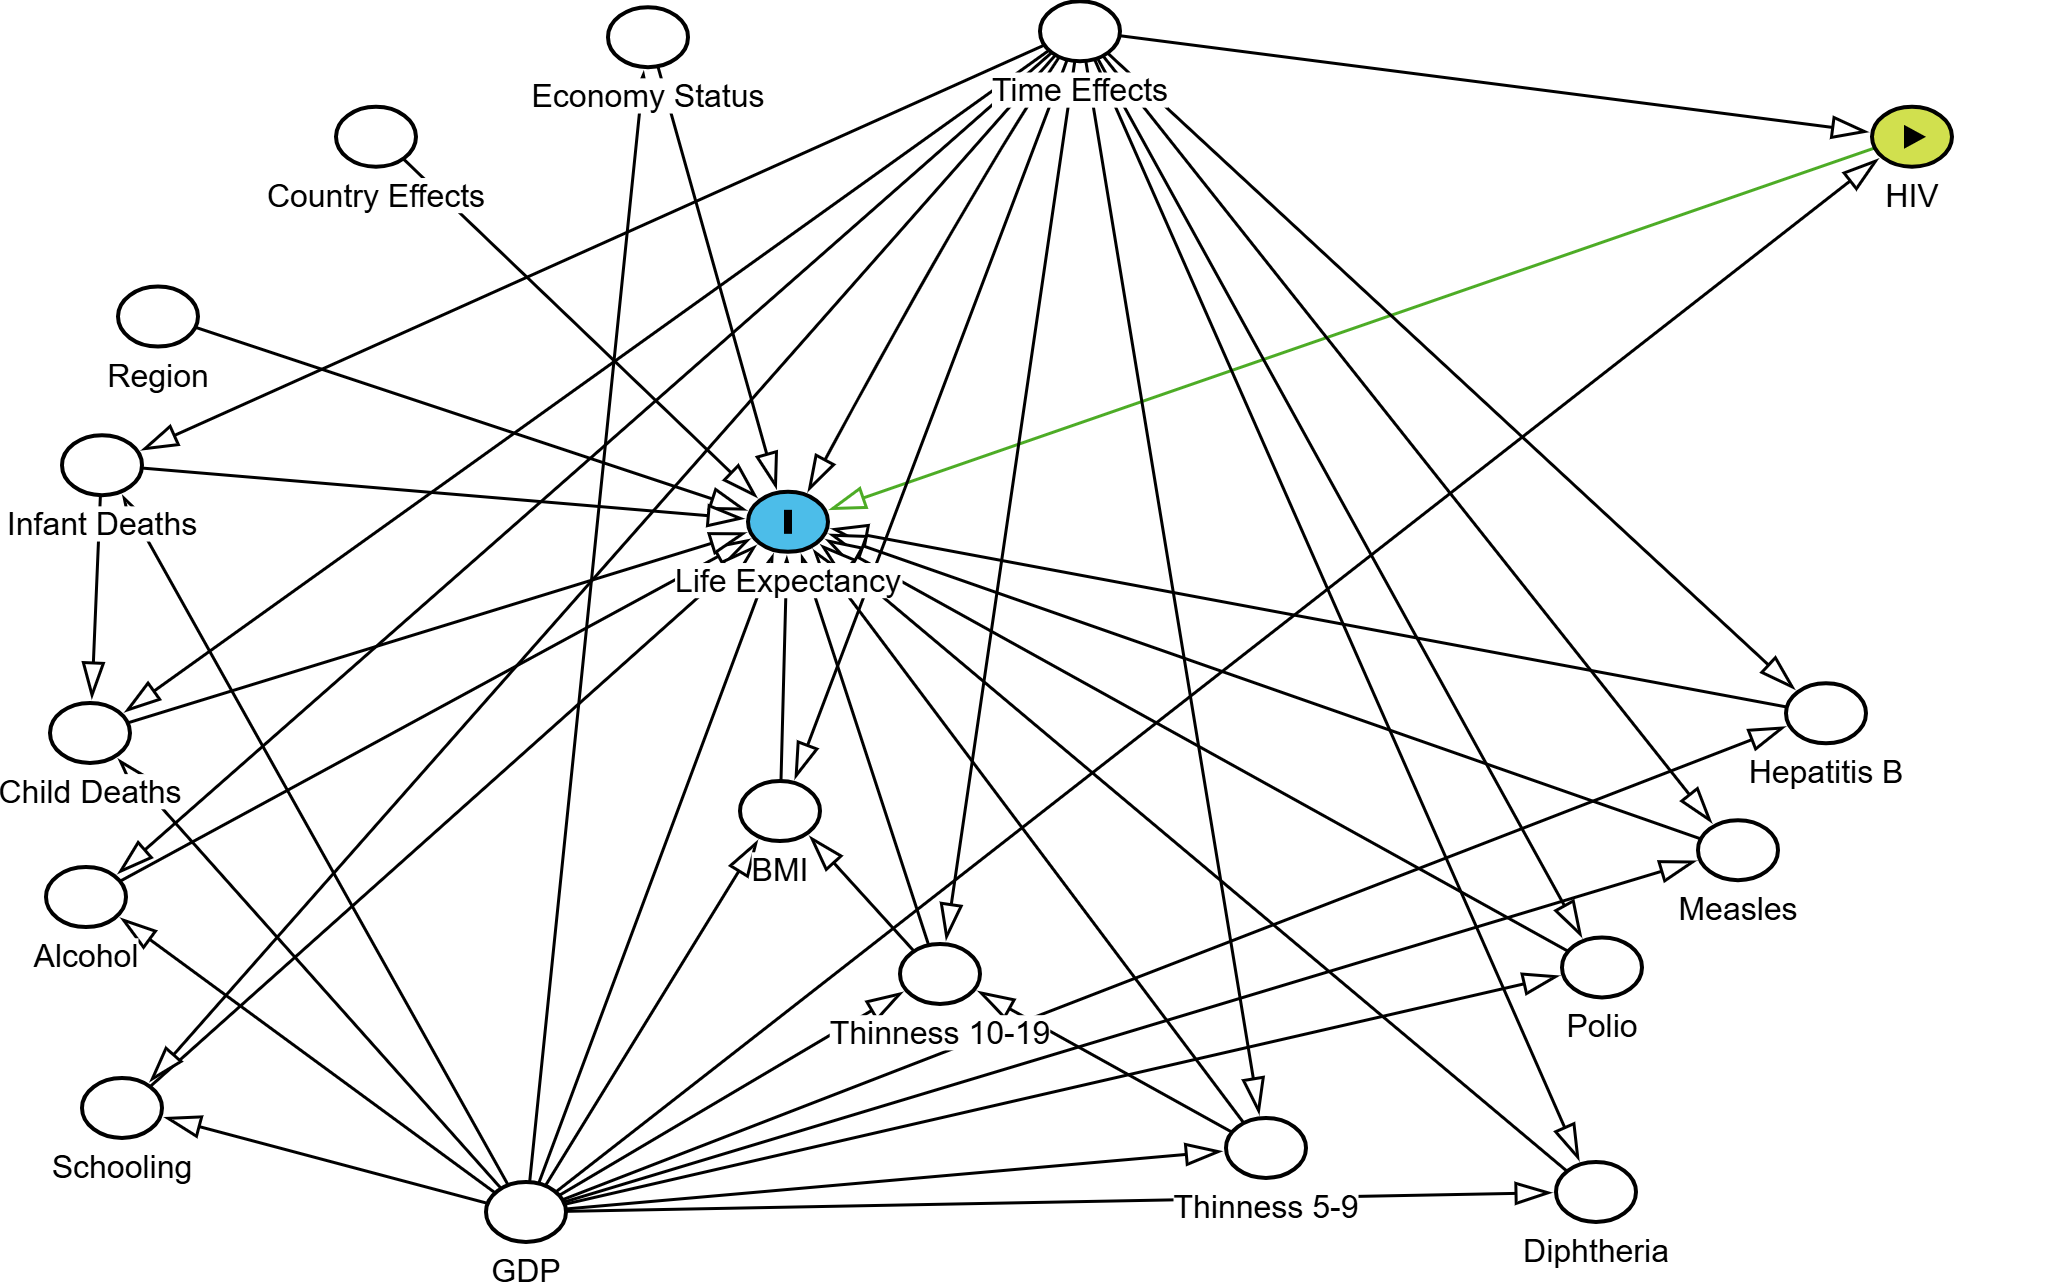
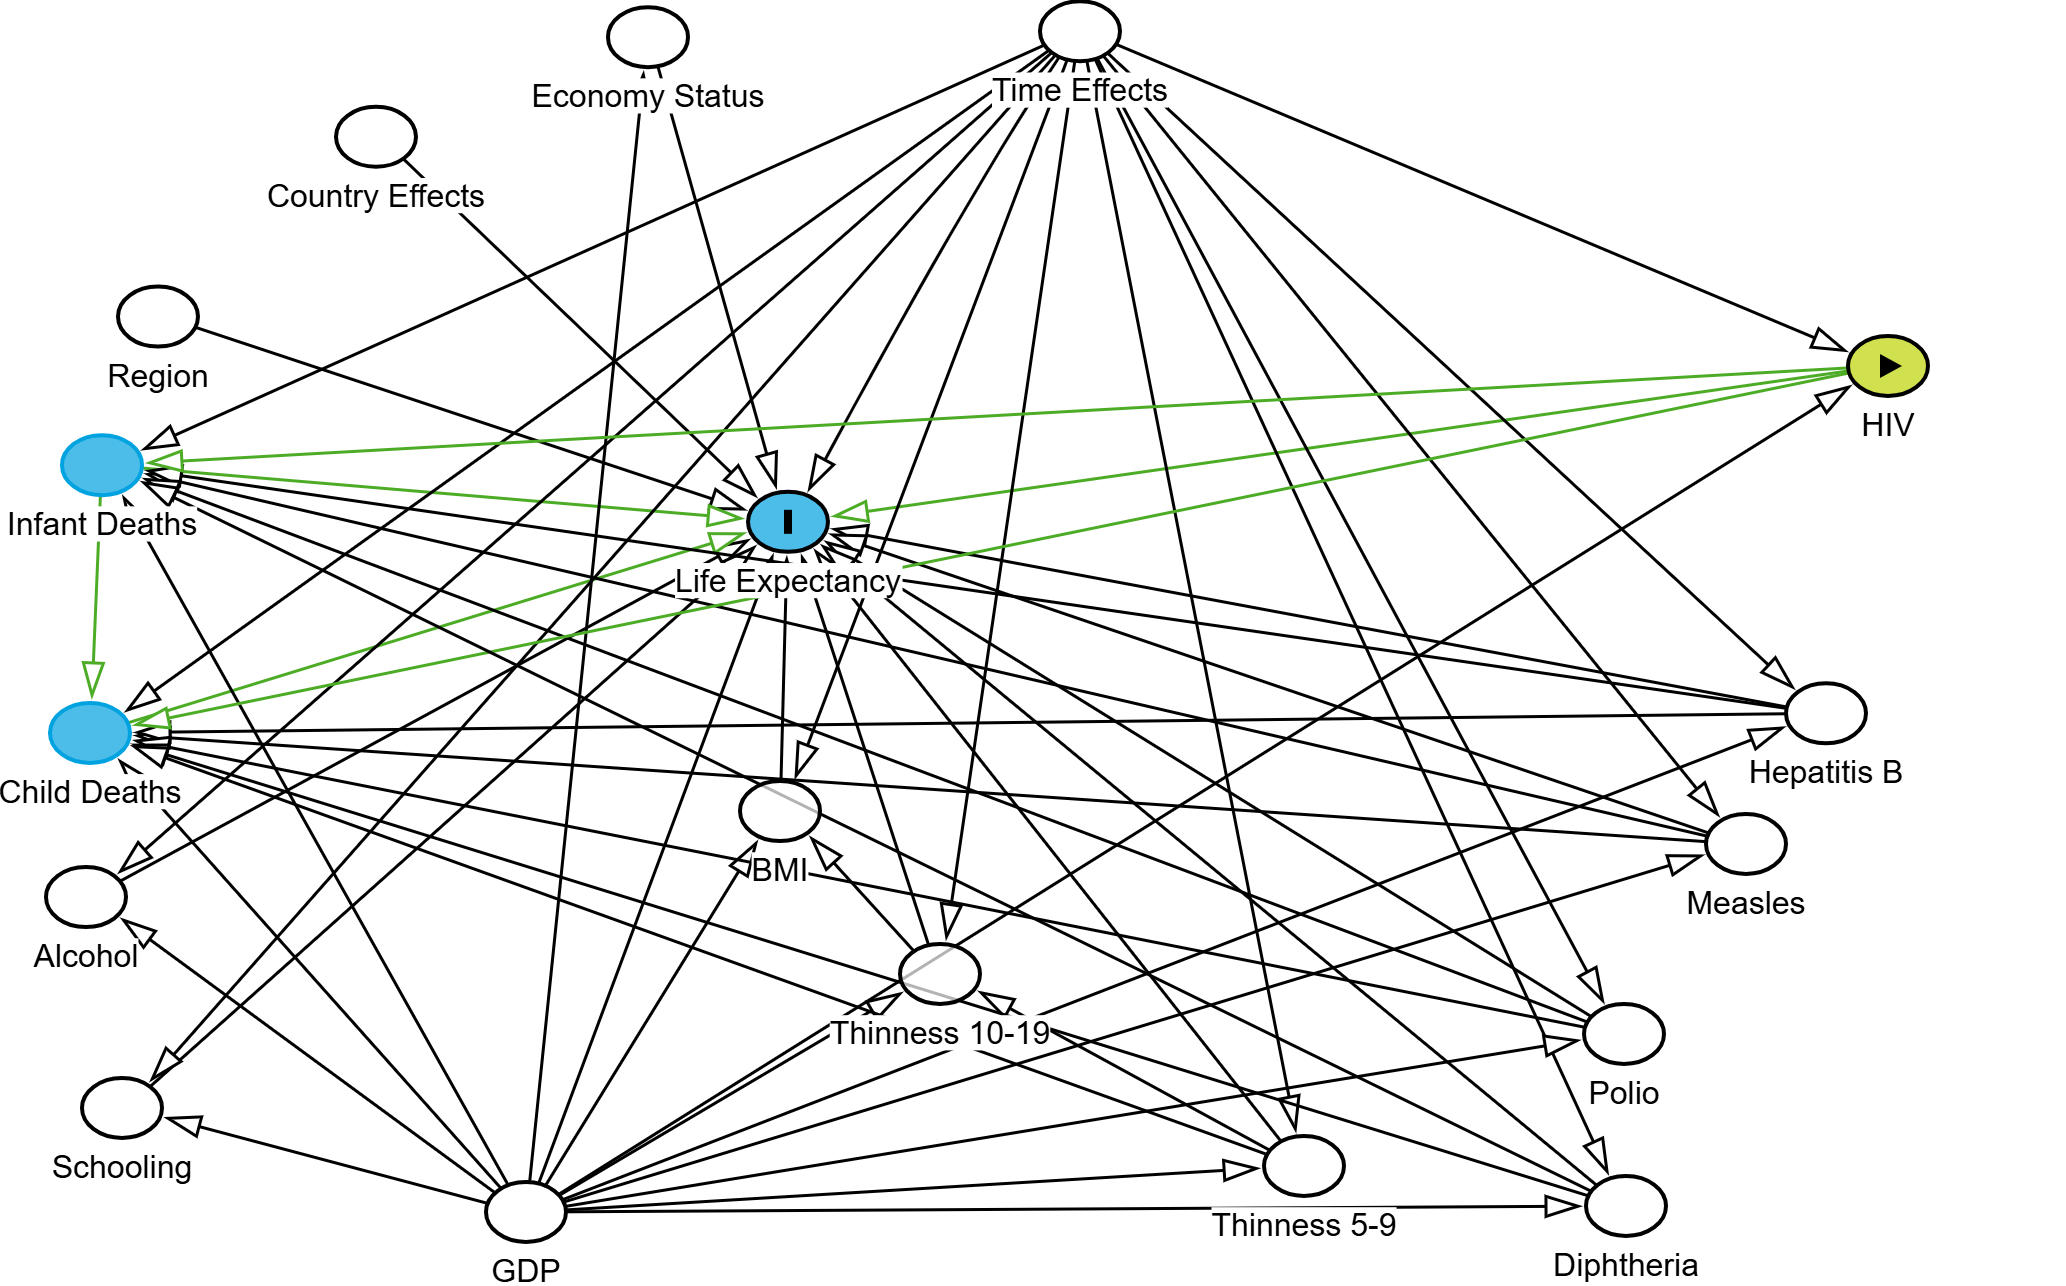
update

diff --git a/1 First Circle - Linear Regression/First_circle_linear_regression_3.md b/1 First Circle - Linear Regression/First_circle_linear_regression_3.md
@@ -902,17 +902,21 @@ look like this (<https://www.dagitty.net>)
 
 <img src="First_circle_linear_regression_3_files/figure-GFM/dagitty HIV.png" style="display: block; margin: auto;" />
 
-The blue node denotes the outcome variable. The green node denotes
-exposure (the effect we want to estimate), white nodes are control
+The blue node with **I** denotes the outcome variable. Other blue nodes 
+are variables excluded from the model. The green node denotes
+exposure (the effect we want to estimate); white nodes are control
 variables, and arrows denote causal relationships. Now, this model is
 definitely a simplification; many relationships are actually
 bidirectional (which can be modeled using lagged variables), and we
 assume that all unobservables are incorporated in the fixed effect
 **Year** and random effect **Country** (notice that there are no
 relationships between it and other covariates, since we assume that
-random effects are uncorrelated with other covariates). In addition,
-*dagitty* evaluated this model and determined that it is correctly
-adjusted to estimate the effect of **HIV** incidence.
+random effects are uncorrelated with other covariates). 
+
+The tool *dagitty* also evaluated this model and determined that it is correctly
+adjusted to estimate the effect of **HIV** incidence (notice that we have to
+exclude **Child Deaths** and **Infant Deaths** from the model, since **HIV** has 
+causal influence on these covariates).
 
 Anyway, causal inference is a topic worth its own series. For now, let
 us just keep in mind that the effect sizes observed in the predictive